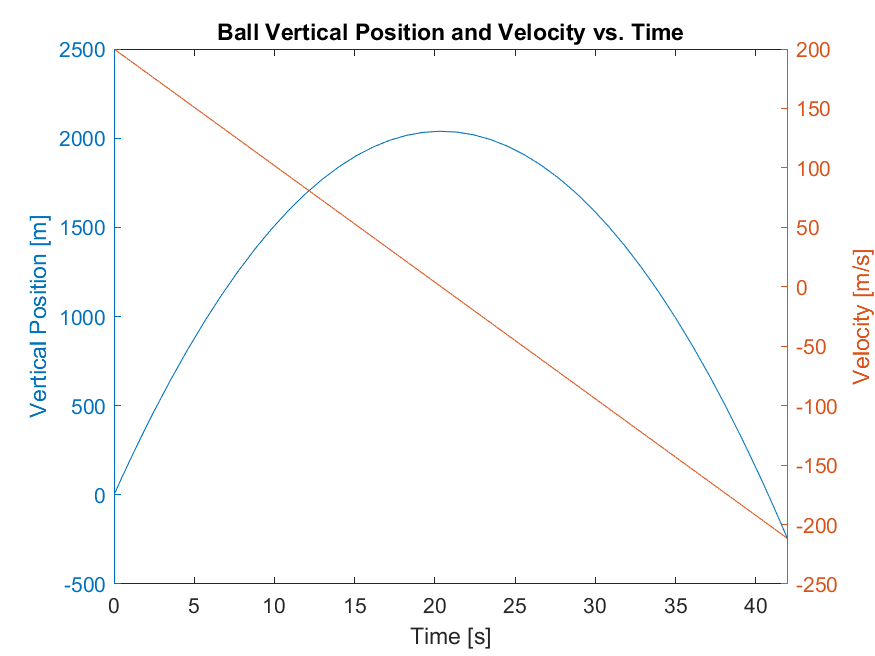
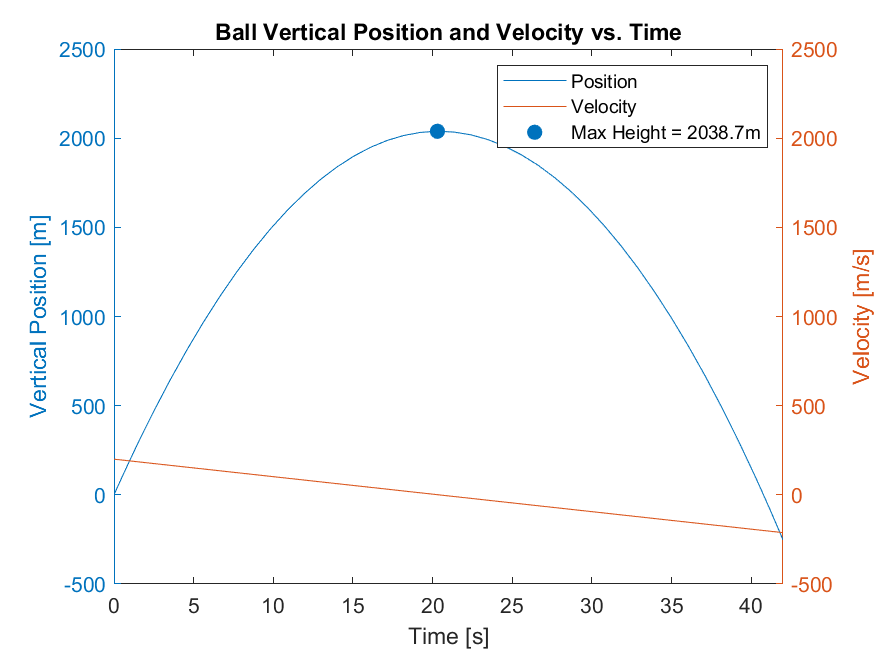
Changes

diff --git a/Project 3/Problem1.m b/Project 3/Problem1.m
@@ -9,20 +9,21 @@ tf  = 42;
 [t,x] = ode45(@ode, [0,tf], [h0, v0]);
 
 hMax   = max(x(:,1));
-tZeroH = 0;
+tZeroH = t(x(:,1)<=0);
 
 figure;
 yyaxis left
 plot(t, x(:,1))
-% hold on
-% plot(t(hMax == x(:,1)), hMax,'r.', 'MarkerSize', 25)
 ylabel('Vertical Position [m]')
 yyaxis right
 plot(t, x(:,2))
 ylabel('Velocity [m/s]')
+hold on
+plot(t(hMax == x(:,1)), hMax,'.', 'color', "#0072BD", 'MarkerSize', 25)
 xlim([0,42]);
 xlabel('Time [s]')
 title('Ball Vertical Position and Velocity vs. Time')
+legend({'Position','Velocity','Max Height = 2038.7m'})
 saveas(gcf, 'Figures/P1ball.png');
 
 
